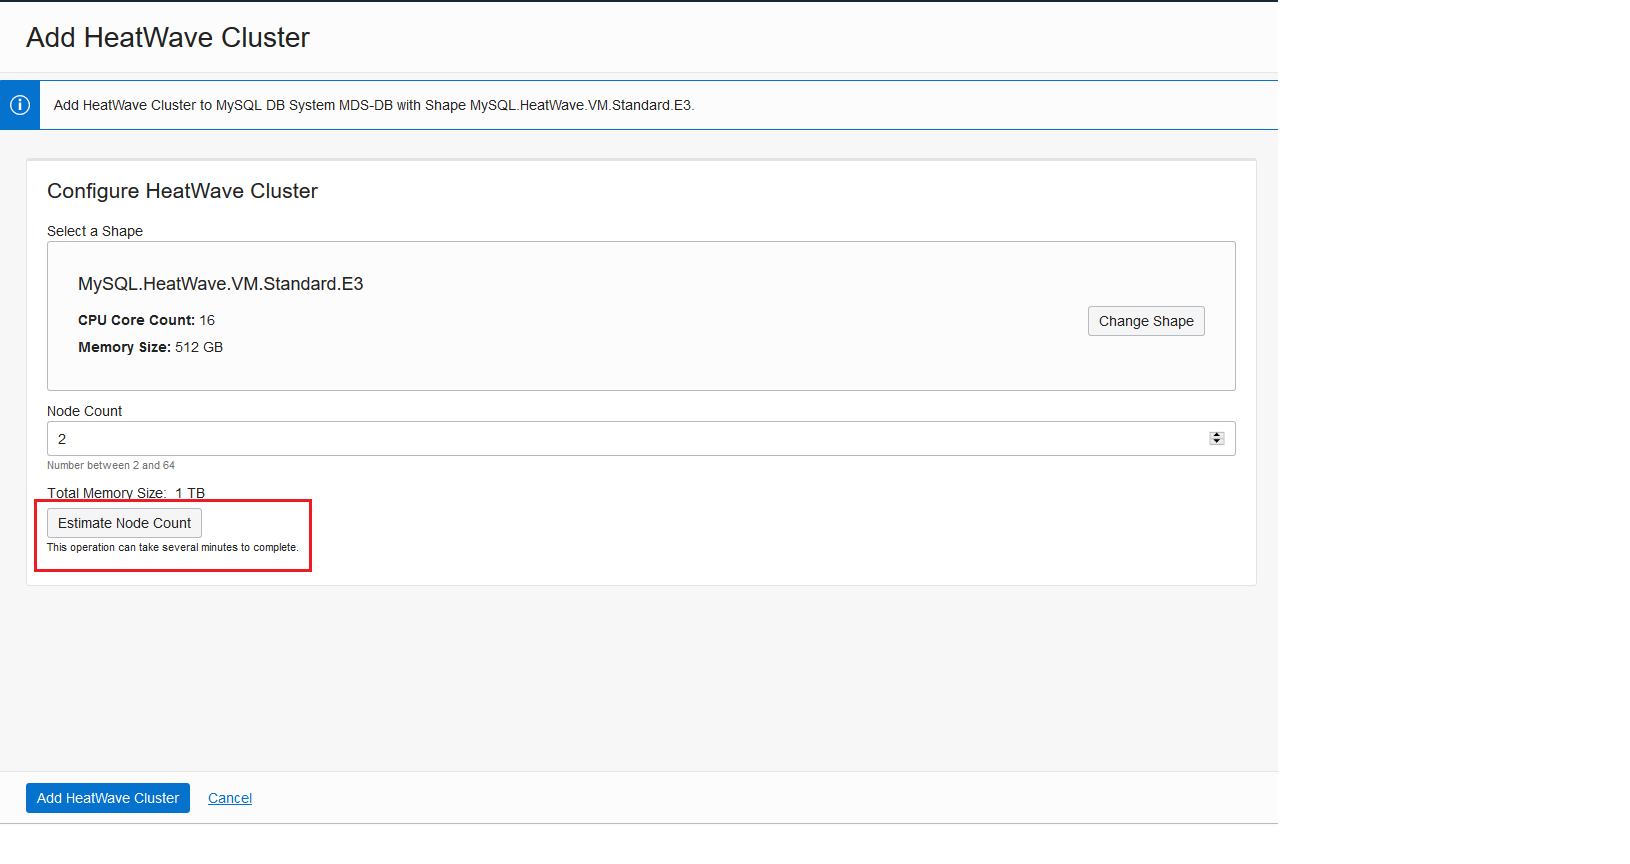
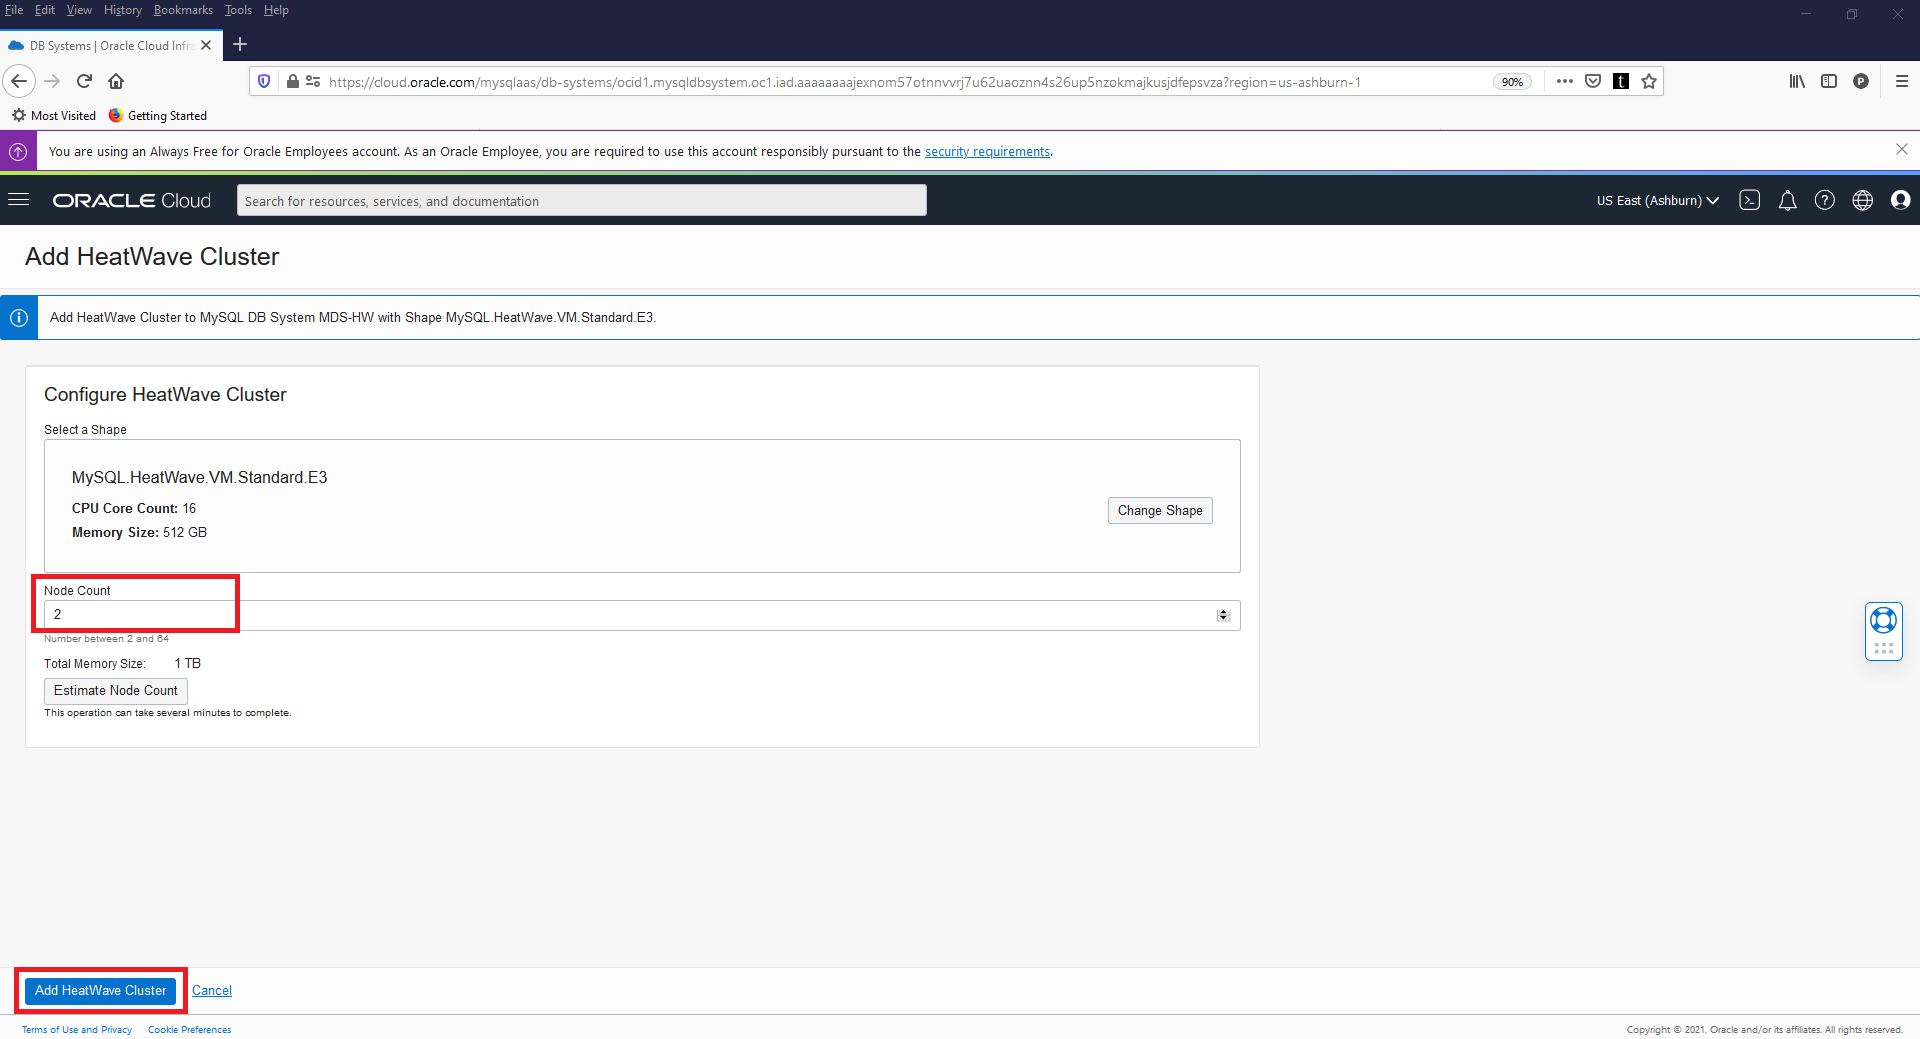
Updated pictures
Updated pictures

diff --git a/create-dbs/create-dbs-region-links.md b/create-dbs/create-dbs-region-links.md
@@ -489,7 +489,7 @@ algorithm, it will predict the minimum number of nodes needed.
 8. Select the airportdb schema and click “Apply Node Count Estimate” to apply the node count
     ![Connect](./images/mysql-heat-apply-estimate.png "mysql heat apply estimate ")
 9. **Set Node Count to 2 for this Lab Click** “Add HeatWave Cluster” to create the HeatWave cluster
-    ![Connect](./images/mysql-add-heat-estimate.png "mysql add-heat estimate")
+    ![Connect](./images/mysql-apply-heat-cluster.png "mysql apply heat cluster ")
 10. HeatWave creation will take about 10 minutes. From the DB display page scroll down to the Resources section. Click the **HeatWave** link. Your completed HeatWave Cluster Information section will look like this:
     ![Connect](./images/mysql-heat-cluster-complete.png "mysql heat cluster complete ")
 

diff --git a/do-heatwave-ml/do-heatwave-ml.md b/do-heatwave-ml/do-heatwave-ml.md
@@ -205,7 +205,7 @@ In this example, data is assigned to a @row\_input session variable, and the var
 
 ## Task 5: Score your machine learning model to assess its reliability and unload the model
 
-1. Score the model using ML\_SCORE to assess the model's reliability. This example uses the balanced_accuracy metric, which is one of the many scoring metrics supported by HeatWave ML.
+1. Score the model using ML\_SCORE to assess the model's reliability. This example uses the accuracy metric, which is one of the many scoring metrics supported by HeatWave ML.
 
     ```bash
     <copy>CALL sys.ML_SCORE('FLIGHTS_BTS_DELAY.bts_airport_delay_train', 'OPER_CARRIER', @airline_model, 'accuracy', @score);</copy>

diff --git a/introduction/introduction.md b/introduction/introduction.md
@@ -72,5 +72,5 @@ In this lab, you will be guided through the following steps:
 
 - **Author** - Perside Foster, MySQL Solution Engineering
 
-- **Contributors** - Mndy Pang, Principal Product Manager, Salil Pradhan, Principal Product Manager, Nick Mader, MySQL Global Channel Enablement & Strategy Manager
+- **Contributors** - Mandy Pang, Principal Product Manager, Salil Pradhan, Principal Product Manager, Nick Mader, MySQL Global Channel Enablement & Strategy Manager
 - **Last Updated By/Date** - Perside Foster, MySQL Solution Engineering, May 2022
